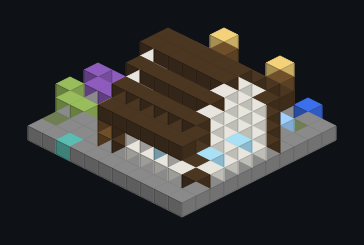
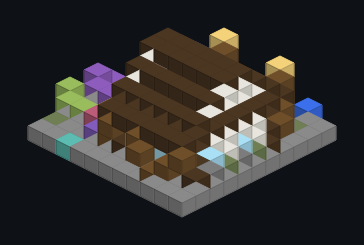
feat(world): ST4a pass over the dock head and pier

Changed region(s): [[0.2115, 0.4, 0.8159, 0.7429], [0.3929, 0.3429, 0.4231, 0.3714]]

diff --git a/art/structures/village/dock_head.py b/art/structures/village/dock_head.py
@@ -5,7 +5,7 @@ The sea is to the north: ``pier_out`` on the north edge hangs the pier from the 
 paving, row y 0, which sits one block above sea level), ``street_out`` on the south edge leads inland. The hut (east
 half) has its door on the north side; inside, the harbor master's desk faces the door (its customer side north), and
 the notice board stands on the quay beside the door, its notices facing the quay."""
-from _style import DARK, PALETTE, door, lantern_post
+from _style import DARK, PALETTE, corner_post, door_frame, lantern_post, plinth, rafter_ends, trim_band, window
 from buildspec import Piece
 
 S = 11
@@ -14,22 +14,33 @@ TOP = 3                               # last wall row
 
 p = Piece("village_dock_head", "Seafarer Dock Head", (S, 8, S), PALETTE)
 
-# the quay: stone bricks with weathered patches, a chiseled course along the sea edge
+# the quay: stone bricks with weathered patches (mossy towards the sea, cracked inland), a chiseled course along the
+# sea edge
 p.fill(0, 0, 0, S - 1, 0, S - 1, "bricks")
 p.fill(0, 0, 0, S - 1, 0, 0, "chiseled")
-for x, z, key in ((1, 3, "bricks_mossy"), (3, 6, "bricks_cracked"), (0, 9, "bricks_mossy"), (4, 1, "bricks_cracked"),
-                  (2, 8, "bricks_cracked"), (9, 1, "bricks_mossy"), (1, 10, "bricks_cracked")):
+for x, z, key in ((1, 3, "bricks_mossy"), (3, 6, "bricks_cracked"), (0, 9, "bricks_mossy"), (4, 1, "bricks_mossy"),
+                  (2, 8, "bricks_cracked"), (9, 1, "bricks_mossy"), (1, 10, "bricks_cracked"), (0, 1, "bricks_mossy"),
+                  (6, 1, "bricks_mossy"), (8, 2, "bricks_mossy"), (2, 2, "bricks_mossy"), (10, 1, "bricks_cracked"),
+                  (3, 4, "bricks_cracked"), (4, 7, "bricks_cracked")):
     p.put(x, 0, z, key)
 
-# the harbor master's hut: render walls on posts, plank floor, dark roof with the ridge along x
+# the harbor master's hut: render walls between stripped spruce corner posts on a cobblestone plinth (the quay paving
+# is its footing), plank floor, a dark roof with the ridge along x over a spruce band and rafter ends
 p.fill(HX0 + 1, 0, HZ0 + 1, HX1 - 1, 0, HZ1 - 1, "spruce")
 p.ring(HX0, HZ0, HX1, HZ1, 1, TOP, "render")
 for x, z in ((HX0, HZ0), (HX1, HZ0), (HX0, HZ1), (HX1, HZ1)):
-    p.fill(x, 1, z, x, TOP, z, "post")
+    corner_post(p, x, z, 1, TOP)
+plinth(p, HX0, HZ0, HX1, HZ1, y=1, footing=False)
 p.roof_ridge_x(HX0, HX1, HZ0, HZ1, TOP + 1, DARK, "dark_ridge", "render", plate="beam_x")
-door(p, 7, 1, HZ0)
-for x, y, z in ((9, 2, HZ0), (HX1, 2, 6), (HX1, 2, 8), (HX0, 2, 7), (8, 2, HZ1)):
-    p.put(x, y, z, "pane")
+trim_band(p, HX0, HZ0, HX1, HZ1, TOP + 1)
+rafter_ends(p, [(x, TOP, HZ0 - 1) for x in (HX0, HX1)], "north")
+rafter_ends(p, [(x, TOP, HZ1 + 1) for x in (HX0, 7, HX1)], "south")
+door_frame(p, 7, 1, HZ0, "north")
+window(p, 9, 2, HZ0, "north", lintel=False)
+window(p, HX0, 2, 7, "west", lintel=False)
+window(p, 8, 2, HZ1, "south", lintel=False)
+for z in (6, 8):
+    window(p, HX1, 2, z, "east", lintel=False)
 
 # inside: the desk across the room facing the door, cargo behind the harbor master, a lantern on the crates
 p.put(7, 1, 6, "pirates_n_ships:harbor_desk[facing=north]")
@@ -57,6 +68,12 @@ for x, y, z in ((0, 1, 8), (1, 1, 8), (0, 2, 8)):
     p.put(x, y, z, "pirates_n_ships:cargo_barrel")
 p.put(1, 1, 3, "minecraft:barrel[facing=up]")
 p.put(2, 1, 3, "minecraft:barrel[facing=north]")
+
+# a bench against the hut's west wall, a barrel with a flower pot by the street
+p.put(HX0 - 1, 1, 5, "minecraft:spruce_stairs[facing=east,half=bottom]")
+p.put(HX0 - 1, 1, 6, "minecraft:spruce_stairs[facing=east,half=bottom]")
+p.put(3, 1, 9, "minecraft:barrel[facing=up]")
+p.put(3, 2, 9, "minecraft:flower_pot")
 
 p.connector(5, 0, 0, "pier_out", "north", "minecraft:chiseled_stone_bricks")
 p.connector(2, 0, S - 1, "street_out", "south", "minecraft:stone_bricks")

diff --git a/art/structures/village/pier.py b/art/structures/village/pier.py
@@ -15,21 +15,30 @@ BERTH_Z = 9                    # berth centre along the pier
 
 p = Piece("village_pier", "Seafarer Pier", (W, 9, L), PALETTE)
 
-# piles on footings every four blocks along both edges and the centre line, cross beams under the deck at sea level
+# piles on cobblestone footings (mostly mossy) every four blocks along both edges and the centre line, cross beams
+# under the deck at sea level
 for z in range(1, L, 4):
     for x in (WEST, 3, EAST):
         if x == 3 and z % 8 != 1:
             continue
-        p.put(x, 0, z, "cobble")
+        p.put(x, 0, z, "mossy" if (x + z) % 3 else "cobble")
         p.fill(x, 1, z, x, SEA, z, "pile")
     for x in range(WEST + 1, EAST):
         if p.get(x, SEA, z) is None:
             p.put(x, SEA, z, "beam_x")
 
+# wales: a stripped spruce timber along both edges at the waterline, between the piles
+for x in (WEST, EAST):
+    for z in range(L):
+        if p.get(x, SEA, z) is None:
+            p.put(x, SEA, z, "beam_z")
+
 # deck: stripped spruce stringers along the edges, planks between
 p.fill(WEST, DECK, 0, WEST, DECK, L - 1, "beam_z")
 p.fill(EAST, DECK, 0, EAST, DECK, L - 1, "beam_z")
 p.fill(WEST + 1, DECK, 0, EAST - 1, DECK, L - 1, "spruce")
+for x, z in ((2, 2), (4, 5), (3, 8), (2, 12), (4, 14), (3, 17)):      # weathered replacement boards
+    p.put(x, DECK, z, "dark")
 
 # the seaward end: a rail between two lantern posts, open in the middle over a ladder down the centre pile
 lantern_post(p, WEST, DECK + 1, 0)
@@ -46,6 +55,16 @@ for z in (3, 15):
 for z in (7, 11):
     p.put(WEST, DECK + 1, z, "pirates_n_ships:cleat[face=floor,facing=north]")
     p.put(EAST, DECK + 1, z, "pirates_n_ships:cleat[face=floor,facing=north]")
+
+# the landward end, clear of the berths: a lantern post and a rail on either edge, cargo waiting to be loaded
+for x in (WEST, EAST):
+    lantern_post(p, x, DECK + 1, L - 2)
+    p.put(x, DECK + 1, L - 1, "fence")
+p.put(WEST, DECK + 1, L - 4, "minecraft:barrel[facing=up]")
+p.put(WEST, DECK + 1, L - 3, "pirates_n_ships:cargo_barrel")
+p.put(EAST, DECK + 1, L - 4, "pirates_n_ships:cargo_crate")
+p.put(EAST, DECK + 1, L - 3, "pirates_n_ships:cargo_crate")
+p.put(EAST, DECK + 2, L - 3, "pirates_n_ships:cargo_crate")
 
 p.berth(0, SEA, BERTH_Z, "north")
 p.berth(W - 1, SEA, BERTH_Z, "north")
